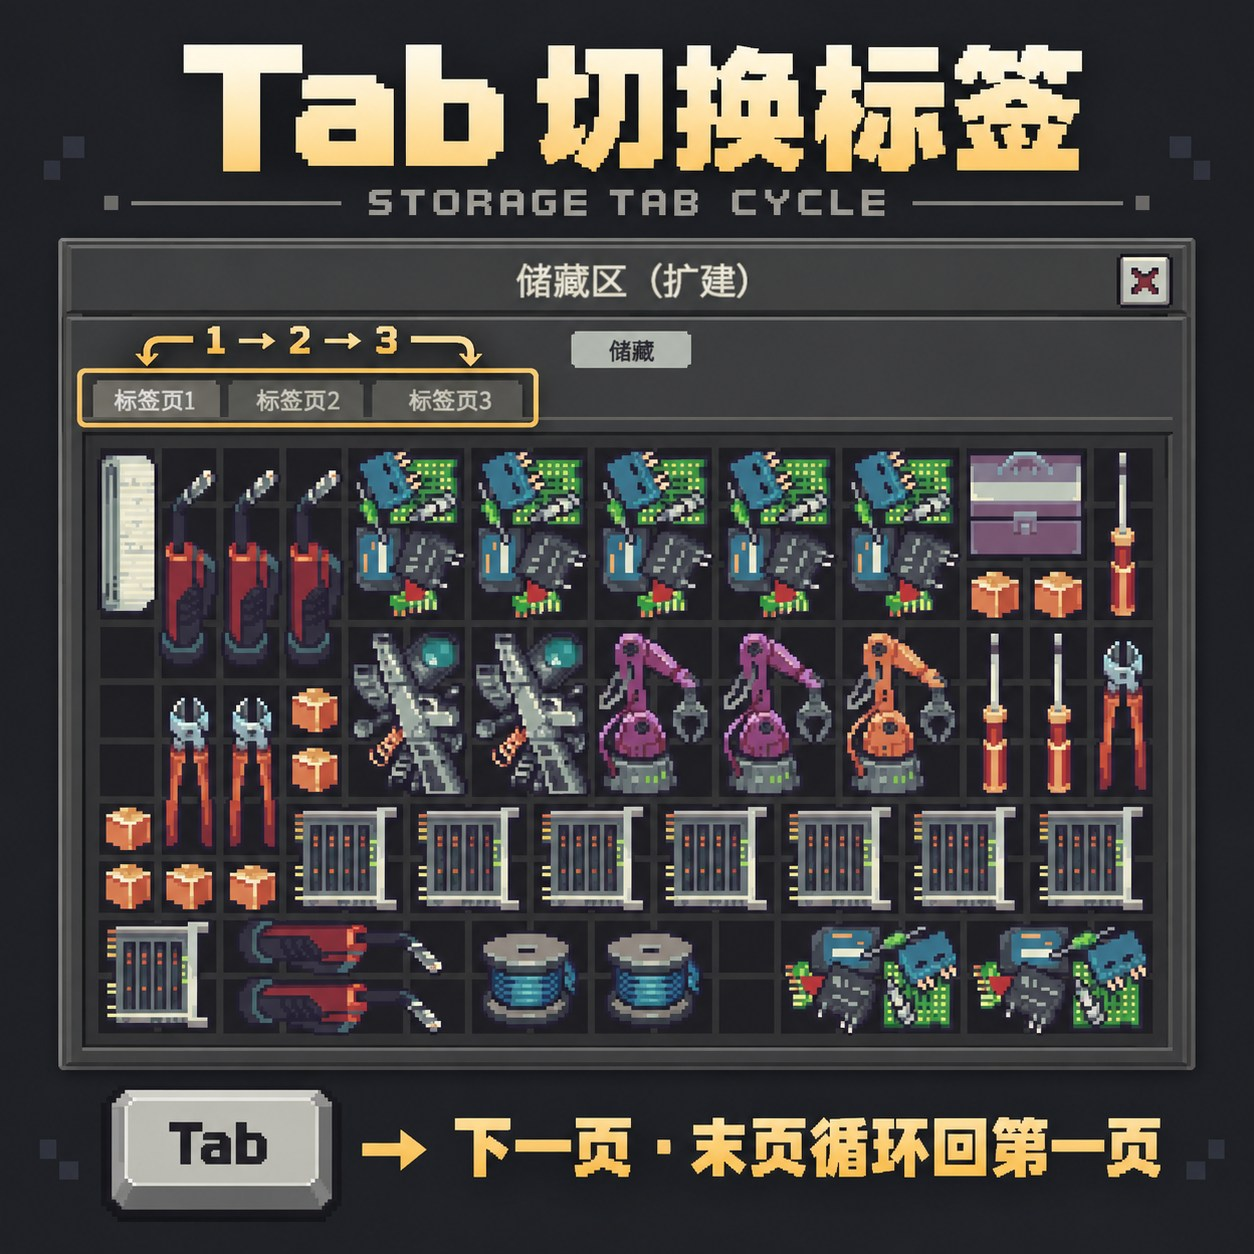
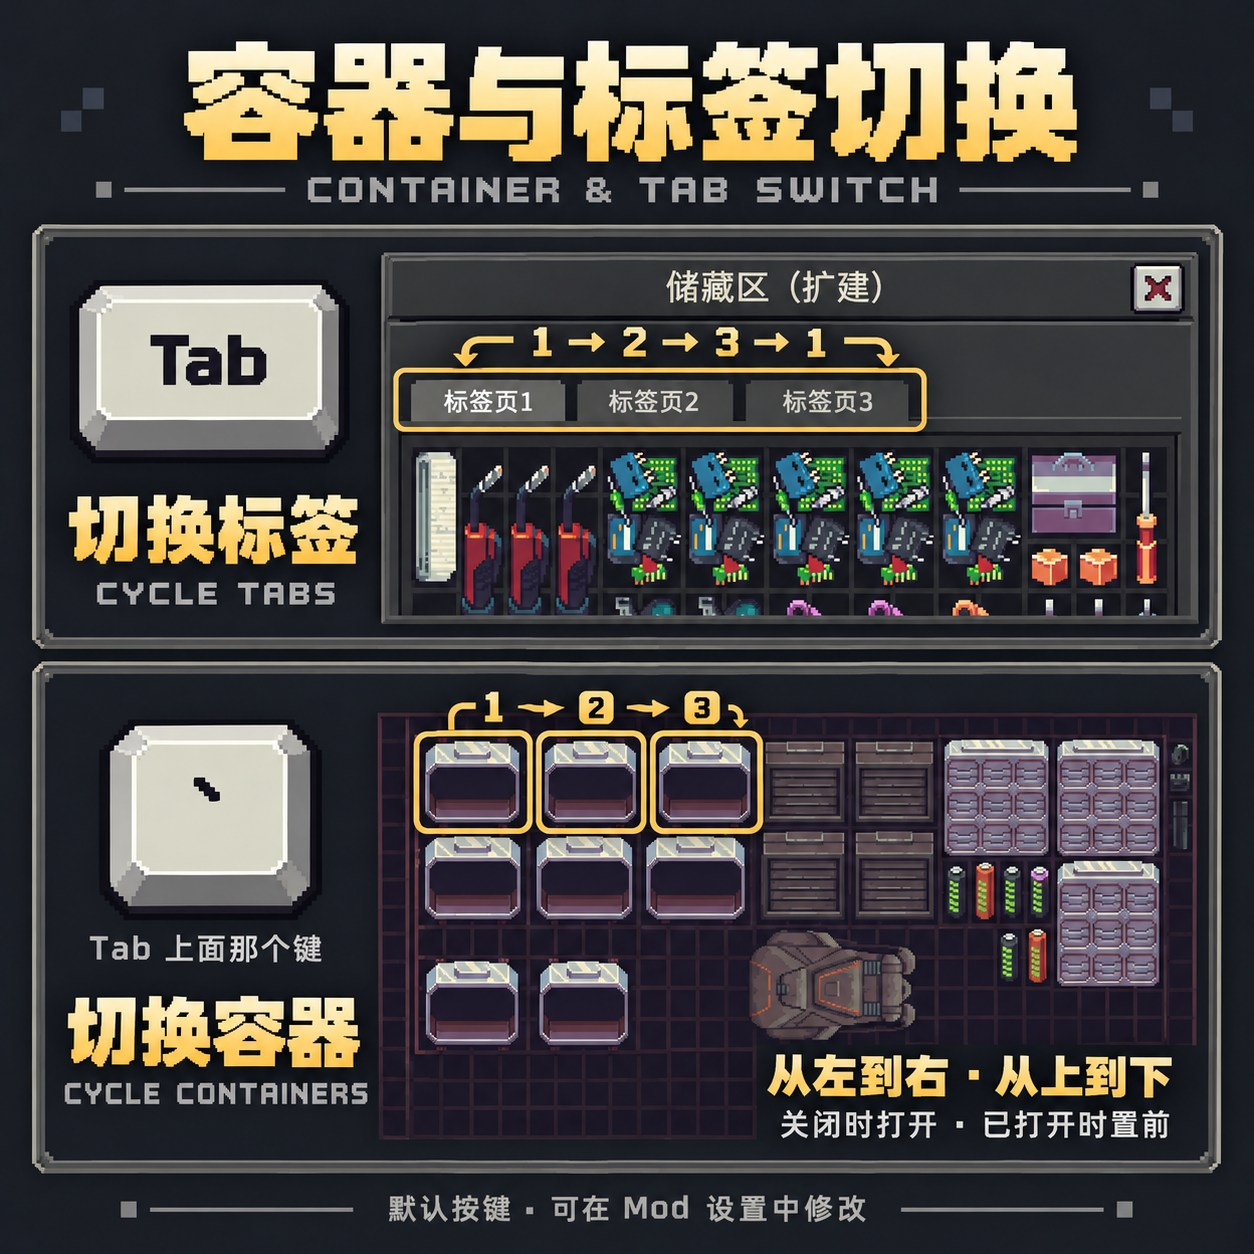
Show tab and container cycling in Workshop preview

diff --git a/README.md b/README.md
@@ -1,5 +1,7 @@
 # 容器与标签切换 / Container & Tab Switch (原名Tab 切换储存标签 / Storage Tab Cycle)
 
+![标签与容器切换预览 / Tab and container cycling](workshop/preview.jpg)
+
 用快捷键循环切换储存区标签和容器。
 
 - **Tab**：切换当前扩容储存区的下一标签页，最后一页回到第一页。
